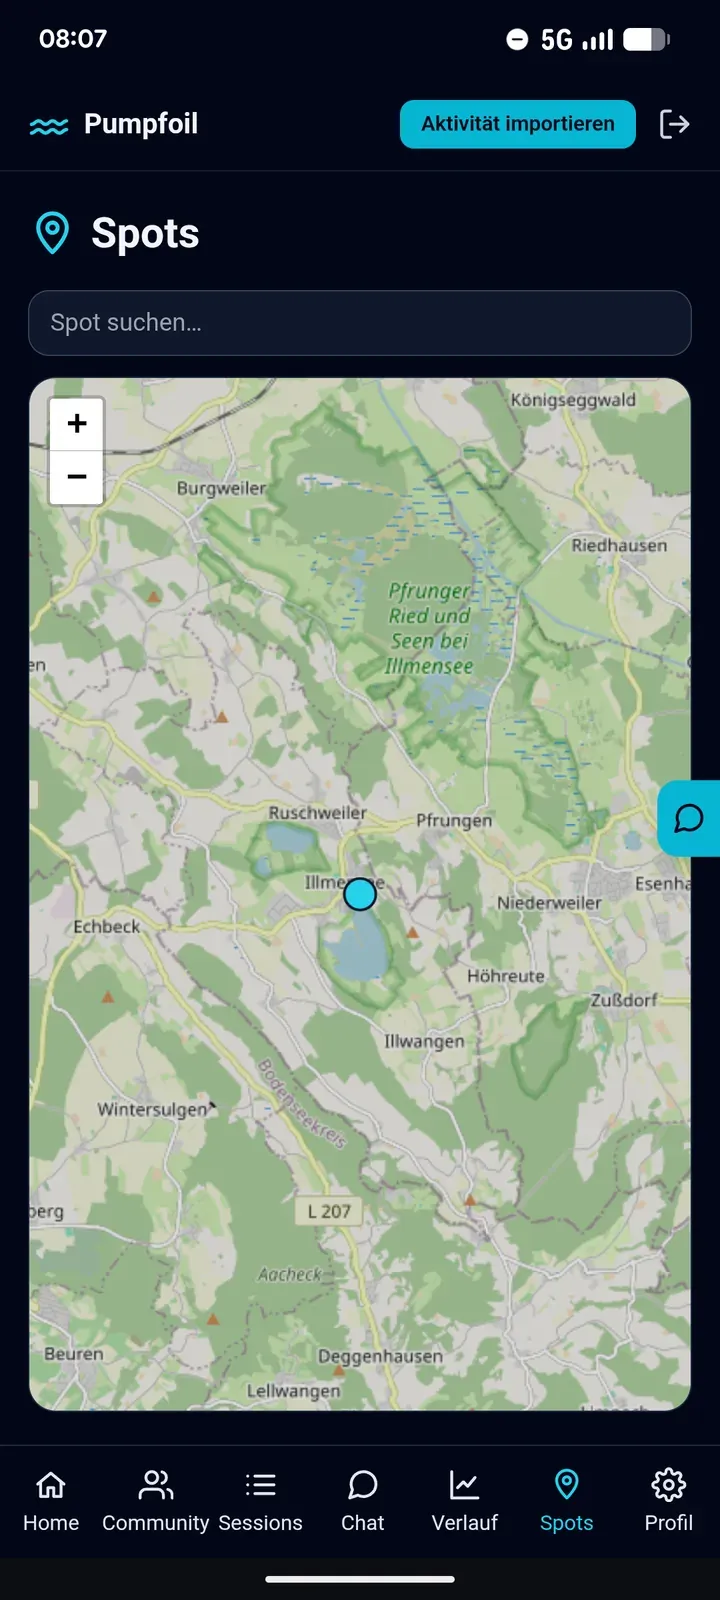
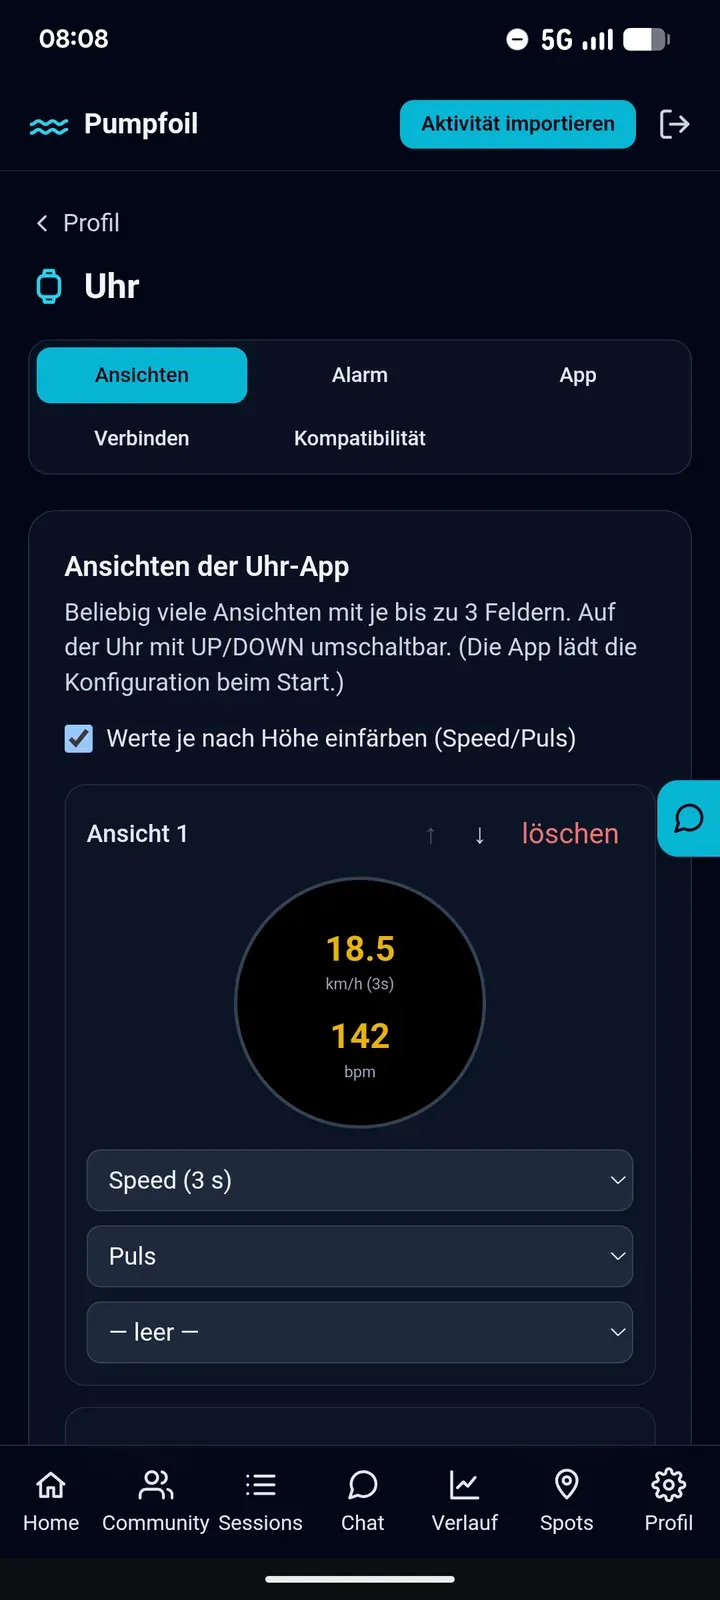
web(landing): Spots-Übersichtskarte aus dem Slider raus (jetzt 10)
Claude-Session: https://claude.ai/code/session_012zt1v2FJUY8nubZmgdCUJt

diff --git a/web/src/pages/Landing.tsx b/web/src/pages/Landing.tsx
@@ -28,7 +28,7 @@ export default function Landing() {
     { icon: TagIcon, title: t("land.f6Title"), body: t("land.f6Body") },
   ];
   // Mobile-App-Screenshots (Hochformat). Reihenfolge = mobile-1..N.webp.
-  const SHOTS = Array.from({ length: 11 }, (_, i) => `/mobile-${i + 1}.webp`);
+  const SHOTS = Array.from({ length: 10 }, (_, i) => `/mobile-${i + 1}.webp`);
   // Desktop 2 nebeneinander pro Slide, Mobile 1.
   const [perView, setPerView] = useState(1);
   useEffect(() => {